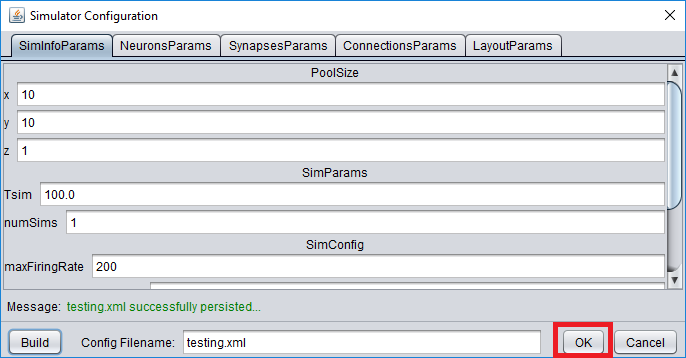
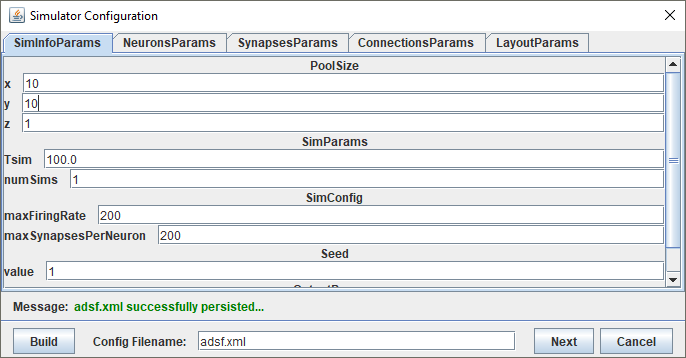
updating documentation for new sim starter

diff --git a/docs/workbench_running_simulations.md b/docs/workbench_running_simulations.md
@@ -6,17 +6,12 @@
 ![alt text](images/WorkbenchHome.png "Home")
 
 
-* Create a new simulation project. Choose File - > New.
+* Create a new simulation project. Choose File - > New - > Simulation Starter.
 
-![alt text](images/WorkbenchNewProject.png "New Project")
 
 * Enter the project name and press the “OK” button.
 
 ![alt text](images/WorkbenchNewProjectOK.png "Press OK")
- 
-* After that, a message “New project specified” is displayed. Click the “Configure” button to start configuring the simulation.
-
-![alt text](images/WorkbenchConfigButton.png "Configure")
  
 * A new window to setup the parameters classes is displayed. After choosing the parameters classes, press the “OK” button.
 
@@ -28,23 +23,15 @@
 
 ![alt text](images/WorkbenchSetParams2.png "Set Parameters")
  
-* If the config file is generated successfully, press the “OK” button to close the window.
+* If the config file is generated successfully, press the "Next" button to close the window.
 
 ![alt text](images/WorkbenchSetParams3.png "Press OK")
- 
-* Press the “Specify” button to open the “Script Specification” window.
-
-![alt text](images/WorkbenchSpecifyButton.png "Specify")
  
 * Setup the parameters for script generation. The “SHA1 Checkout Key” is the commit number. If it is blank, it will checkout the latest version. Make sure to specify the Simulation Folder Location. 
 
 ![alt text](images/WorkbenchScriptSpecification.png "Script Specification")
  
-* Press the “Generate” button to generate the script file.
-
-![alt text](images/WorkbenchGenerateButton.png "Generate script")
- 
-* Press the “Run script” to run the script. If the simulator location is a remote location, it transfers the configuration, neuron list and the script files to the remote machine before running the script on the remote machine.
+* Click the “Run” button to run the script. If the simulator location is a remote location, it transfers the configuration, neuron list and the script files to the remote machine before running the script on the remote machine.
 
 ![alt text](images/WorkbenchRunScriptButton.png "Run script")
  
@@ -52,9 +39,9 @@
 
 ![alt text](images/WorkbenchCredential.png "Credential")
 
-* If success, the message box will show the layout files have been uploaded to the remote location and the script is being executed.
+* The Simulation Runtime Window is displayed. The simulation will need time to run on the local or remote machine before completing. Give the simulation a few minutes to run to completion.
 
-![alt text](images/WorkbenchScriptStarted.png "Script Started")
+![alt text](images/SimulationRuntimeEnvironment.png "Runtime Environment")
  
 * Press the “Analyze” button to download simulation results after the completion of the simulation.
 
@@ -62,7 +49,6 @@
  
 * The execution time of the simulation depends on various factors, such as the configuration file, the available resources on the remote machine. So, if the simulation is not completed or unexpected errors occur during the execution, a message will be displayed to indicate that the download of execution result failed. Then, users need to investigate on the remote machine to find out the root cause.
  
-![alt text](images/WorkbenchResultDownloadFail.png "Fail")
 
 ### 2.2. About the generated script files
 The generated script files do the following steps.
